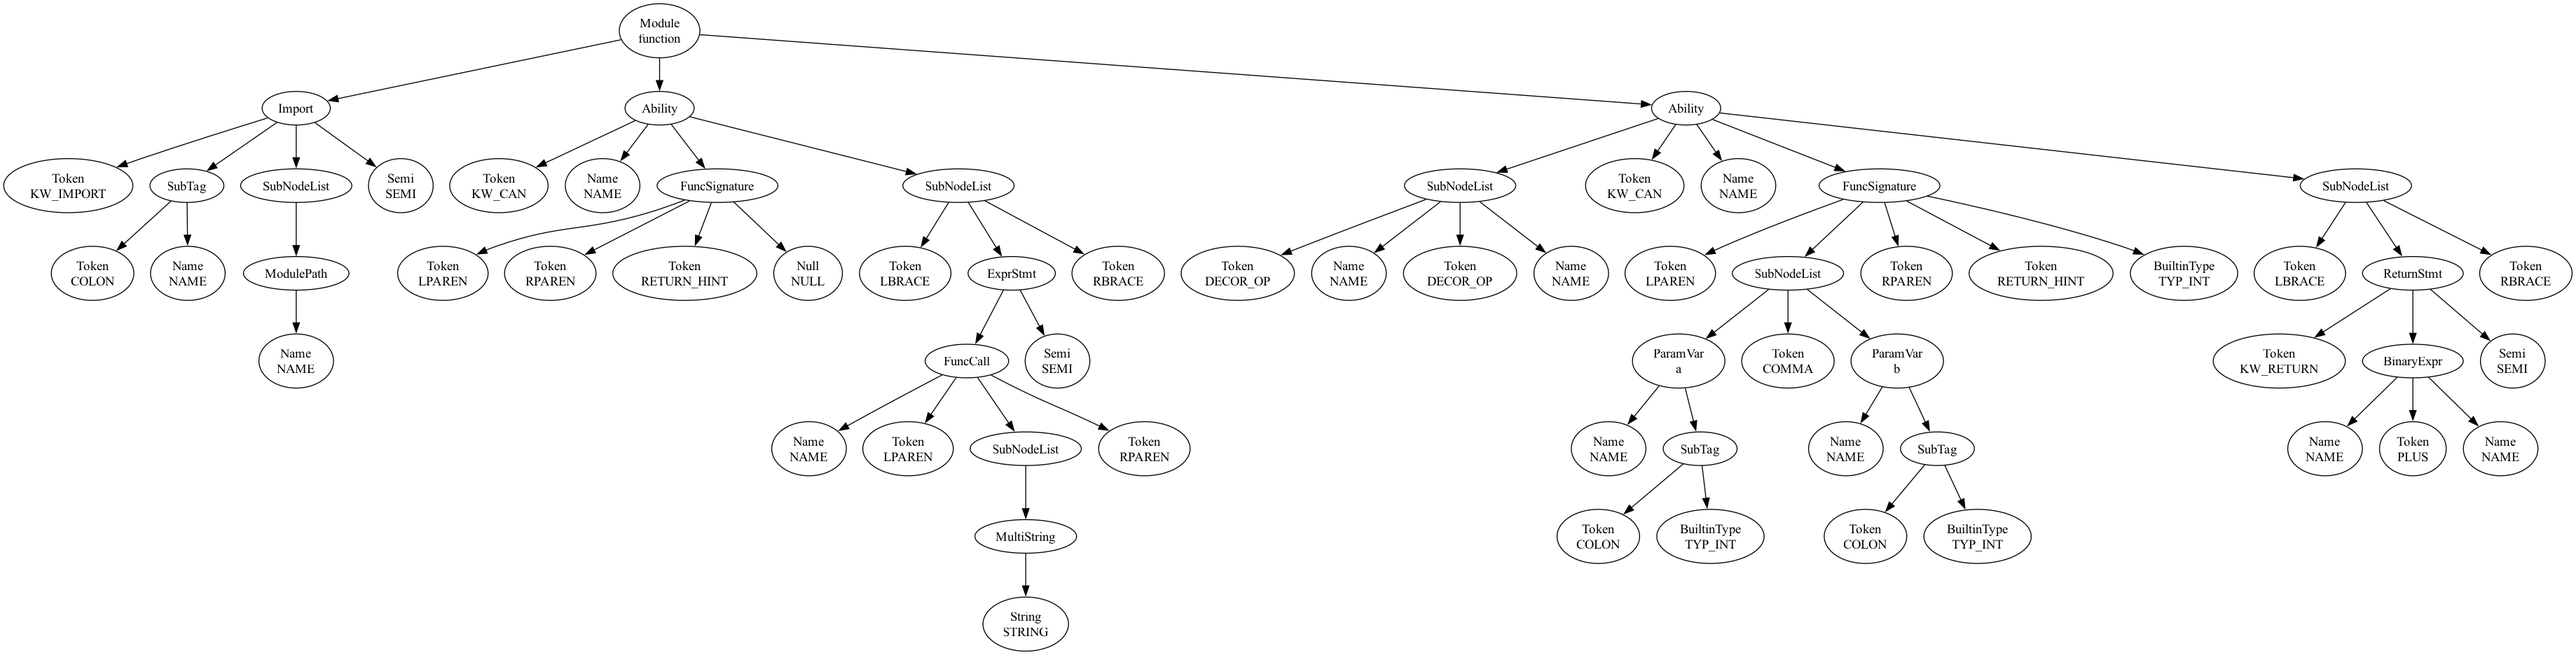
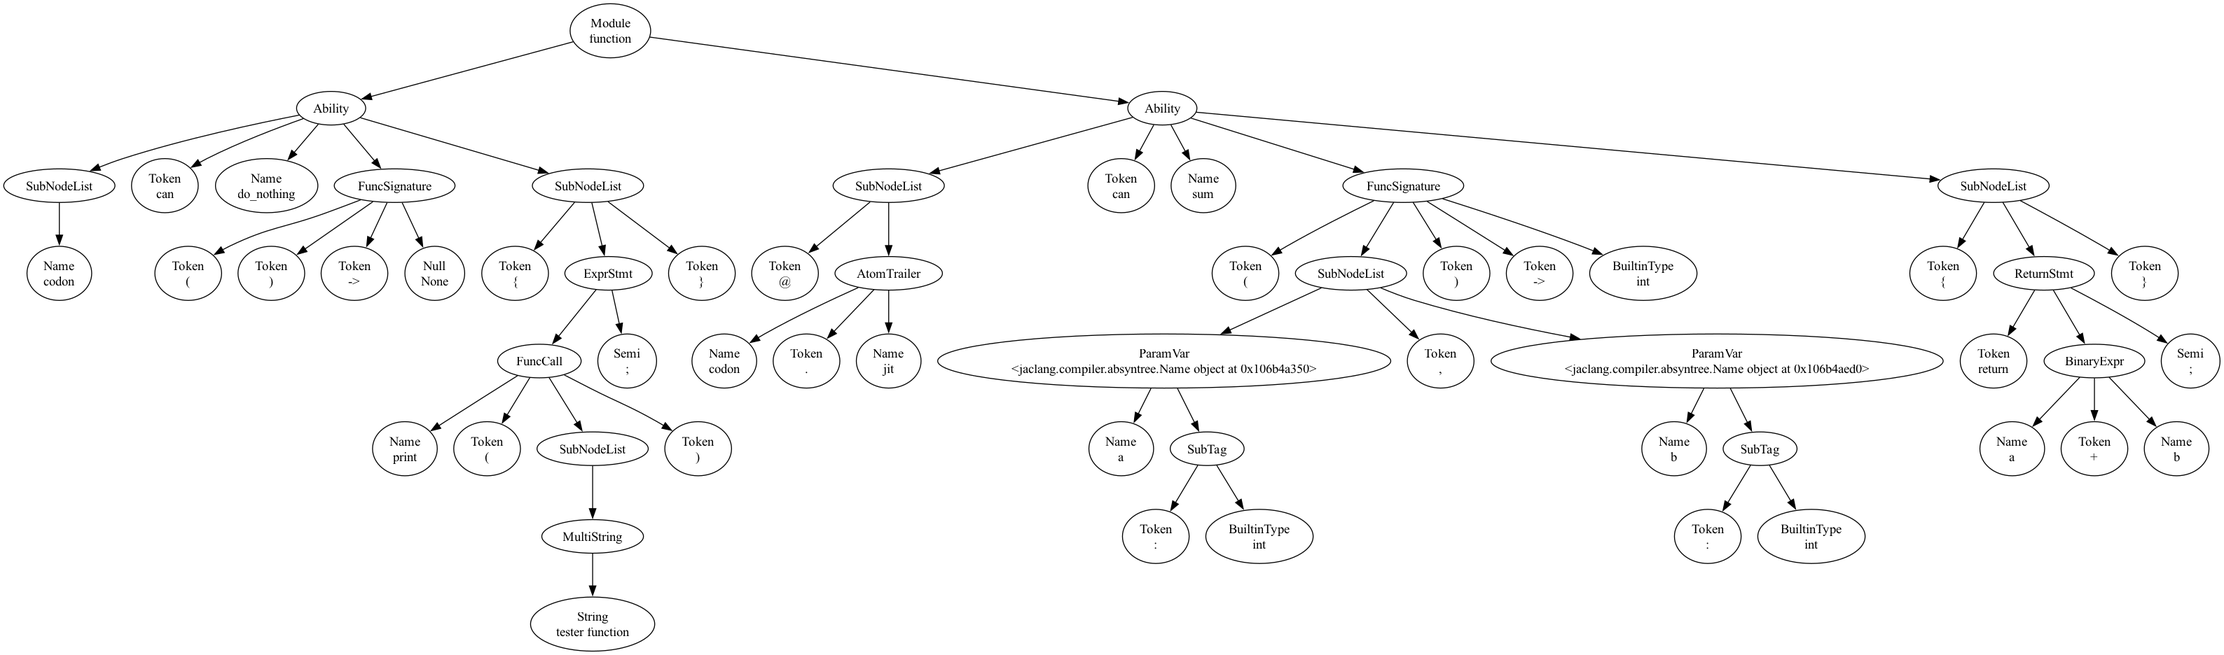
got ast visualizer to print out the values of nodes

diff --git a/jac/jaclang/compiler/passes/main/graph_viz_pass.py b/jac/jaclang/compiler/passes/main/graph_viz_pass.py
@@ -42,7 +42,8 @@ class GraphvizPass(Pass):
 
         # Attempt to extract a name if possible
         node_name = getattr(node, "name", None)
-        node_name_str = node_name.value if hasattr(node_name, "value") else str(node_name)
+        node_name_str = node.value.strip('"') if getattr(node, "value", None) else str(node_name)
+        # node.value.strip('"') Gets rid of double quotes if value is a string
 
         if node_type == "Name":
             print("FOUND NAME")
